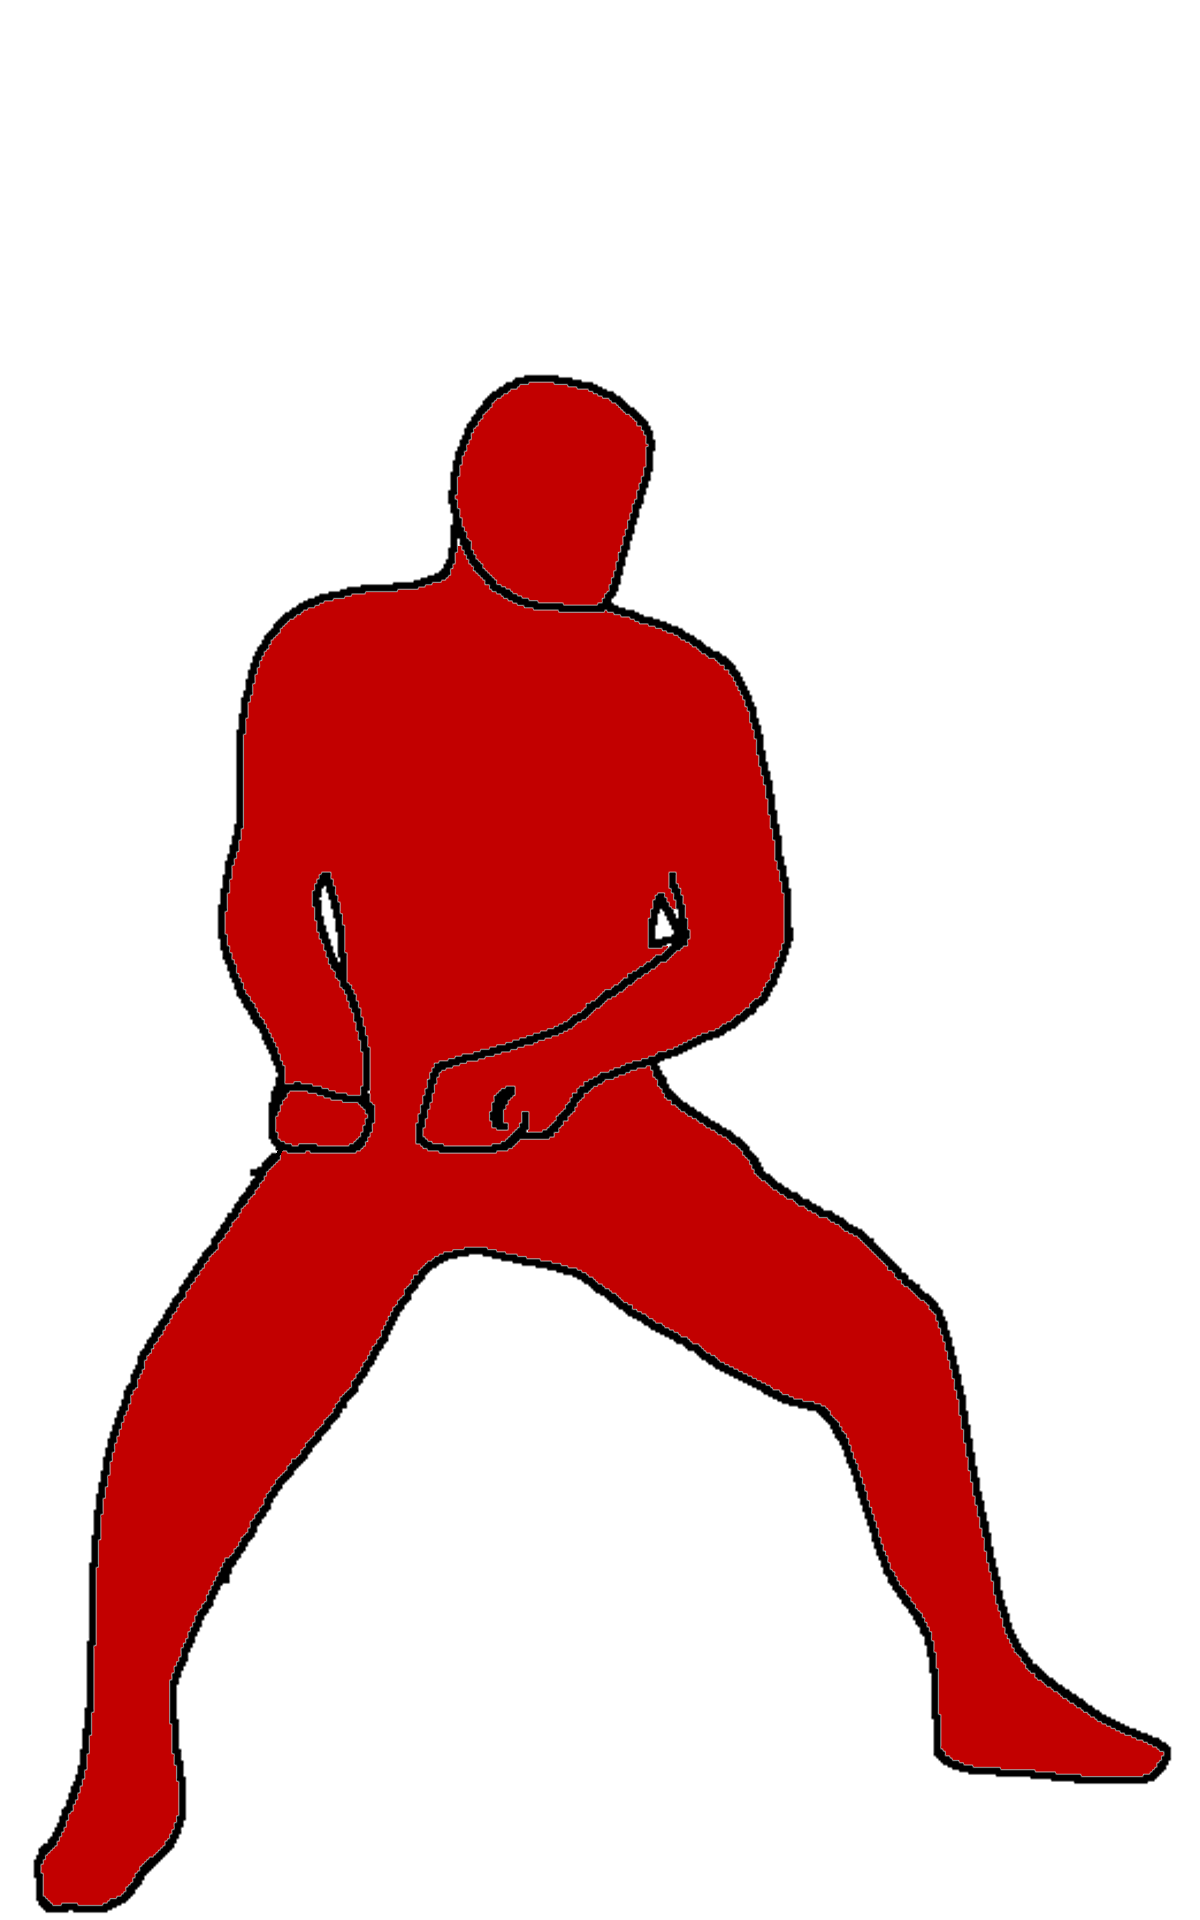
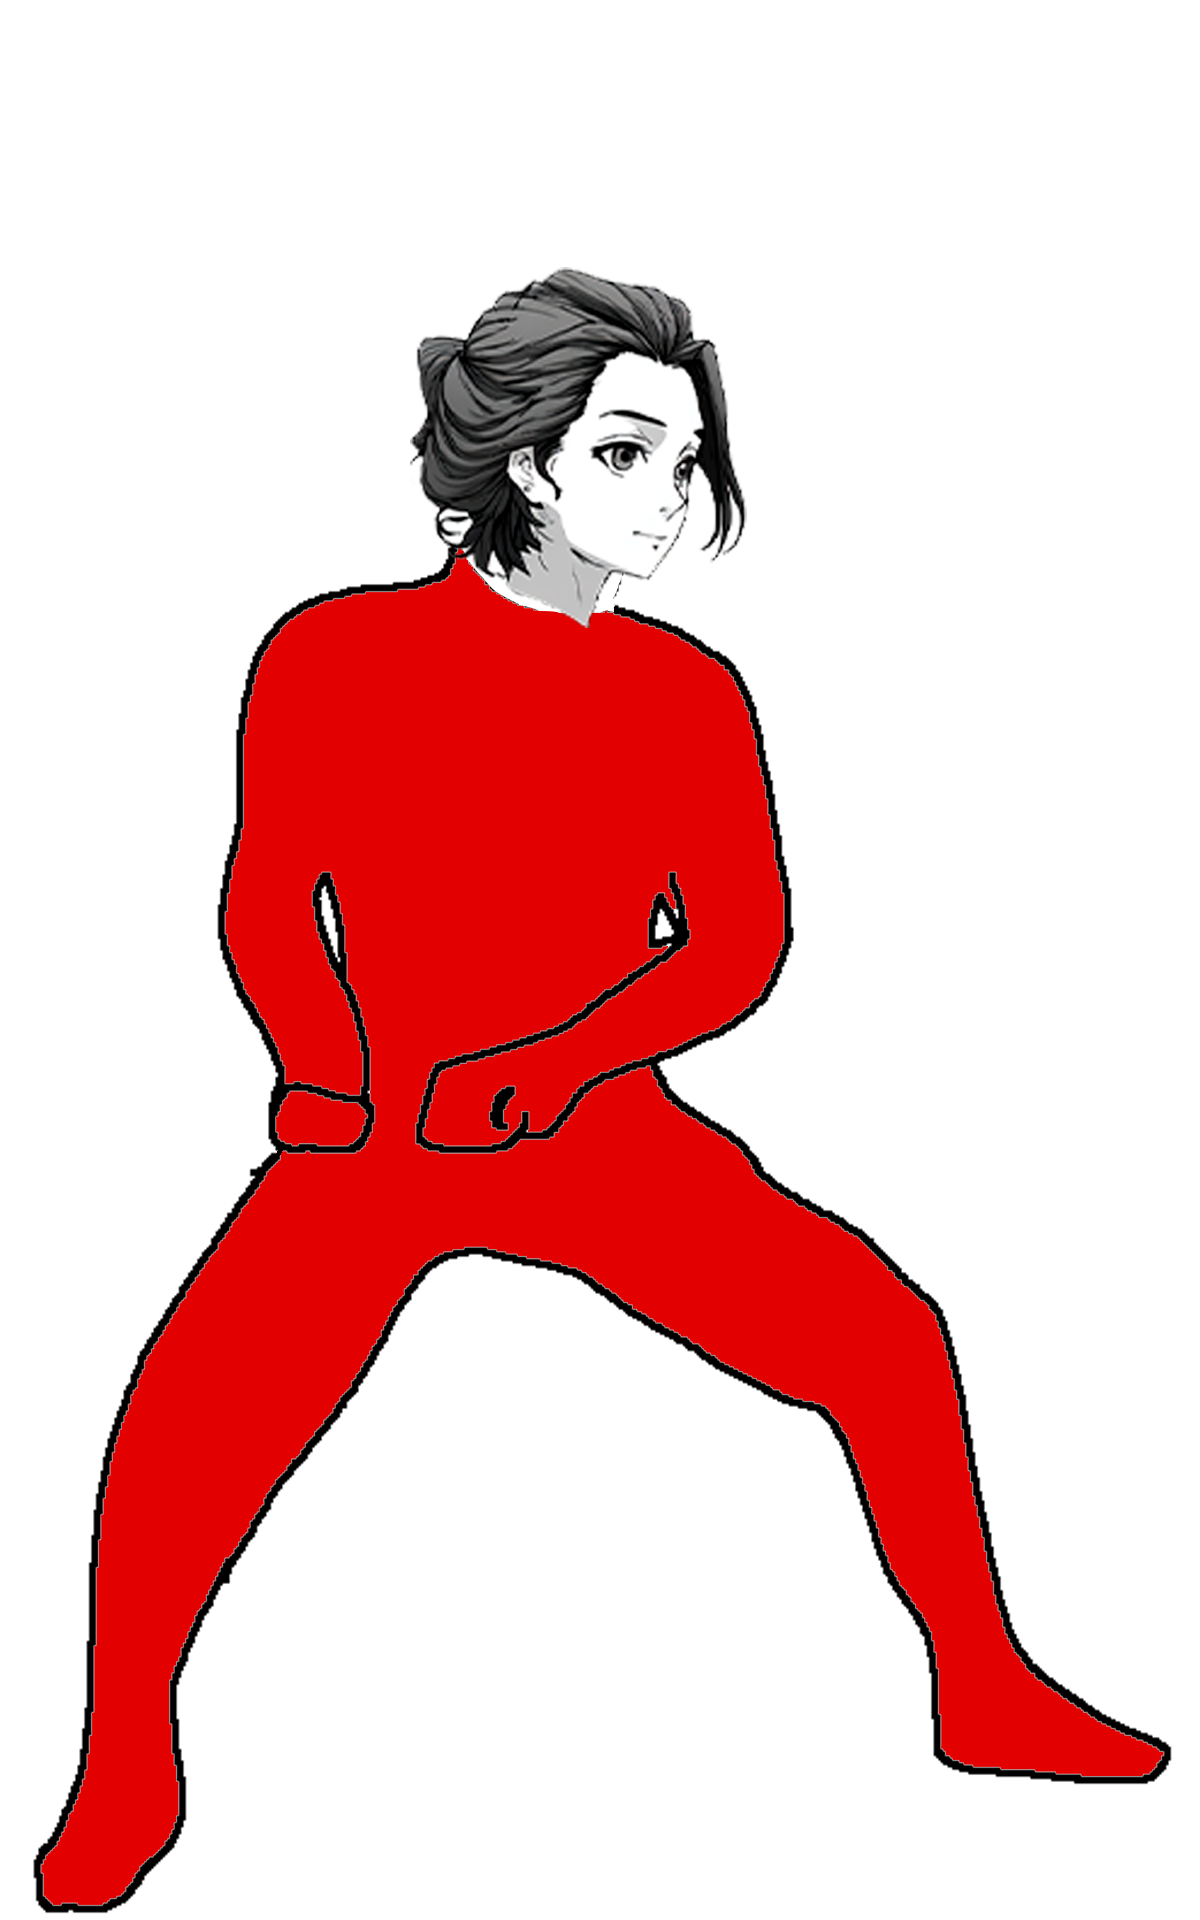
added face, added background, fixed player sizes, fixed animations

Changed region(s): [[0.0308, 0.125, 0.9867, 1.0]]

diff --git a/src/views/HomeView.vue b/src/views/HomeView.vue
@@ -52,6 +52,9 @@
   <script lang="ts">
   import { Options, Vue } from 'vue-class-component';
 
+  // Бэкграунды
+  import sky from '@/assets/backgrounds/sky.png';
+
   // Импорт спрайтов
   import staySprite from '@/assets/sonya/stay.png';
   import blockSprite from '@/assets/sonya/block.png';
@@ -130,28 +133,28 @@
   @Options({})
   export default class HomeView extends Vue {
     // Константы игры
-    readonly FLOOR_HEIGHT = 210;
+    readonly FLOOR_HEIGHT = 80;
     readonly POINT_LIFETIME = 50;
     readonly POINT_SPACING = 5;
-    readonly BALL_SPEED = 10;
-    readonly BALL_SIZE = 10;
+    readonly BALL_SPEED = 3;
+    readonly BALL_SIZE = 20;
     readonly JUMP_STRENGTH = 90;
     readonly JUMP_DURATION = 500;
-    readonly ATTACK_DURATION = 300;
+    readonly ATTACK_DURATION = 400;
     readonly UPPERCUT_DURATION = 400; // Длительность атаки снизу
-    readonly RED_EFFECT_DURATION = 500;
+    readonly RED_EFFECT_DURATION = 100;
     readonly ATTACK_COOLDOWN = 1000;
     readonly UPPERCUT_COOLDOWN = 1500; // Длинный кулдаун для атаки снизу
     readonly THROW_COOLDOWN = 1000;
-    readonly THROW_DELAY = 300;       // Задержка перед броском
+    readonly THROW_DELAY = 200;       // Задержка перед броском
     readonly ACTION_LOCK_DURATION = 300; // Блокировка действий после броска
     readonly BLOCK_DURATION = 500;
     readonly BLOCK_COOLDOWN = 1000;
     readonly STUN_DURATION = 1000;
 
     // Размеры спрайтов
-    readonly SPRITE_WIDTH = 80;
-    readonly SPRITE_HEIGHT = 120;
+    readonly SPRITE_WIDTH = 160;
+    readonly SPRITE_HEIGHT = 240;
     // cпрайты основной атаки
 
     readonly ATTACK_SPRITES = [
@@ -160,15 +163,15 @@
     ];
     //спрайты анимации stay
     readonly STAY_SPRITES = [stay1, stay2, stay3, stay4];
-    readonly STAY_ANIMATION_DURATION = 1050; // 0.9 секунды на полный цикл
-    readonly STAY_ANIMATION_FORWARD_DURATION = 600; // 0.5 секунды на прямую часть
+    readonly STAY_ANIMATION_DURATION = 1050;
+    readonly STAY_ANIMATION_FORWARD_DURATION = 600;
     
     // Статусы игроков
     players: Player[] = [
       {
-        bodyLeft: 50, 
+        bodyLeft: 200, 
         bodyBottom: this.FLOOR_HEIGHT,
-        movementSpeed: 5, 
+        movementSpeed: 2, 
         facingLeft: false, 
         movementDirection: 0,
         isJumping: false, 
@@ -193,9 +196,9 @@
         currentStayFrame: 0,
       },
       {
-        bodyLeft: 800, 
+        bodyLeft: 600, 
         bodyBottom: this.FLOOR_HEIGHT,
-        movementSpeed: 5, 
+        movementSpeed: 2, 
         facingLeft: true, 
         movementDirection: 0,
         isJumping: false, 
@@ -308,6 +311,7 @@
         player.attackProgress = 0;
         player.attackCooldown = this.ATTACK_COOLDOWN;
         player.isRed = true;
+        console.log(sky) 
         setTimeout(() => (player.isRed = false), this.RED_EFFECT_DURATION);
       }
     }
@@ -363,8 +367,8 @@
       const player = this.players[playerIndex];
       const direction = player.facingLeft ? -1 : 1;
       this.balls.push({
-        x: player.bodyLeft + (direction === -1 ? -10 : 30),
-        y: player.bodyBottom + 50,
+        x: player.bodyLeft + (direction === -1 ? 100 : 100),
+        y: player.bodyBottom + 130,
         playerIndex: playerIndex,
         color: playerIndex === 0 ? 'red' : 'purple',
         visible: true,
@@ -771,7 +775,9 @@
     position: relative;
     width: 1000px;
     height: 600px;
-    background: #eef2f3;
+    background-image: url('../assets/backgrounds/sky.png');
+    background-repeat: no-repeat;
+    background-size: cover;
     border: 3px solid black;
     overflow: hidden;
   }
@@ -782,8 +788,6 @@
     left: 0;
     width: 100%;
     height: 35%;
-    background: yellow;
-    border-top: 3px solid black;
   }
 
   .character {
